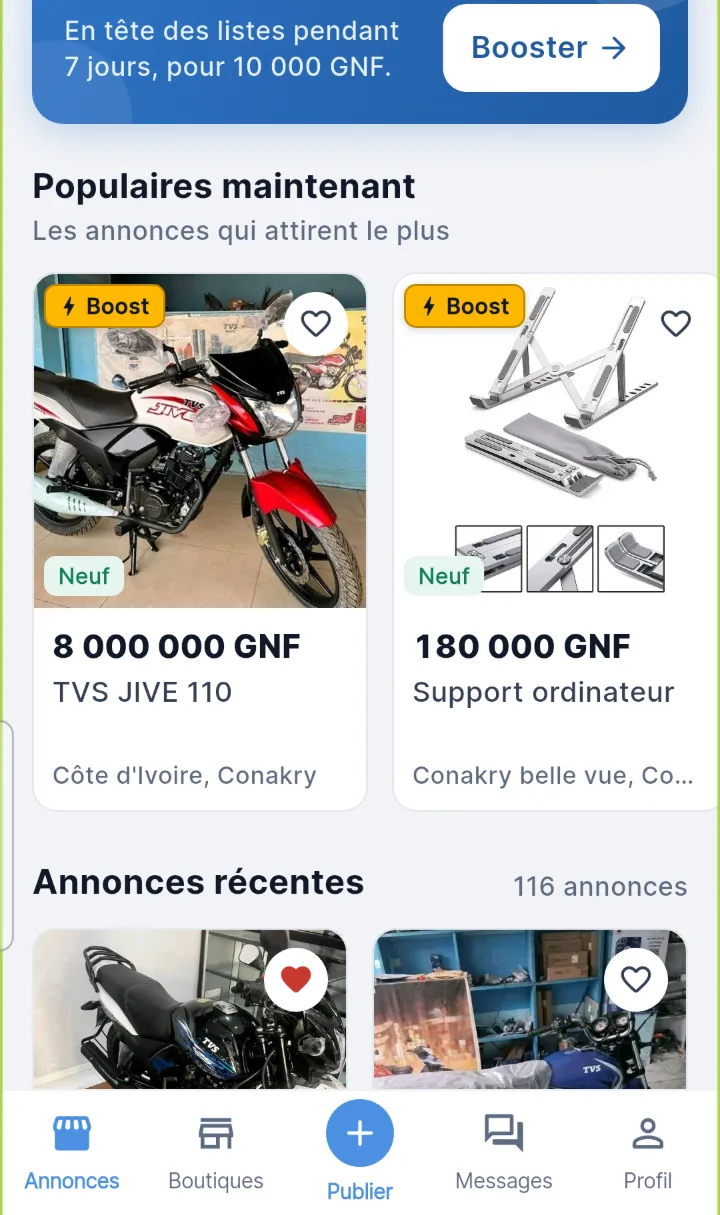
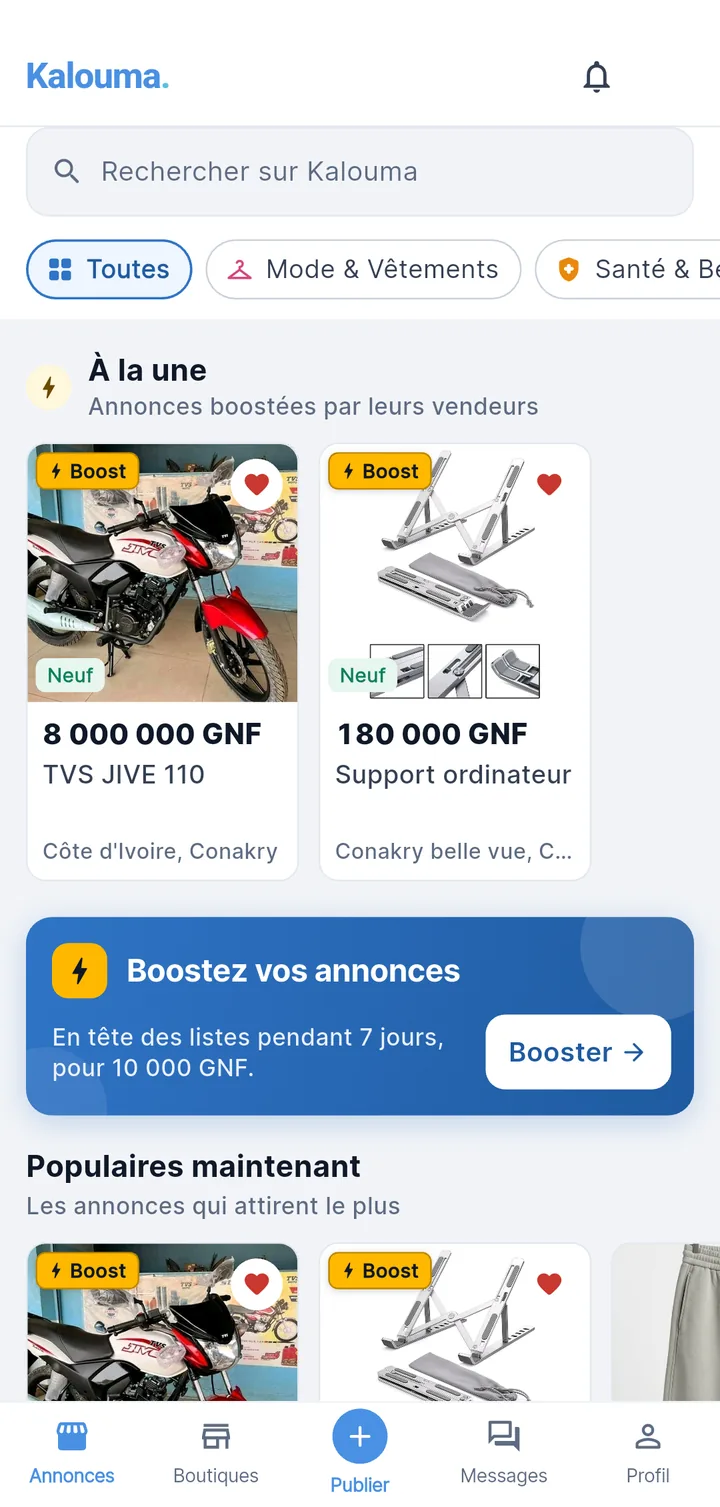
Site : capture Boost refaite, bandeau entier et téléphone non coupé

diff --git a/index.html b/index.html
@@ -209,7 +209,7 @@
         <p class="band-sub">Touchez « Booster » depuis l'app. C'est la seule option payante de Kalouma.</p>
       </div>
       <div class="peek">
-        <figure class="phone phone--crop"><img src="assets/img/boost.webp" width="720" height="1215" loading="lazy" decoding="async" alt="Capture du bandeau « Boostez vos annonces » au-dessus des annonces populaires."></figure>
+        <figure class="phone phone--crop"><img src="assets/img/boost.webp" width="720" height="1507" loading="lazy" decoding="async" alt="Capture de l’accueil de l’app : annonces à la une avec le badge Boost, et bandeau « Boostez vos annonces »."></figure>
       </div>
     </div>
   </section>

diff --git a/css/site.css b/css/site.css
@@ -101,7 +101,8 @@ a:hover{color:var(--blue-ink-hover)}
 .band-sub{margin-top:14px;font-size:17px}
 .peek{display:flex;justify-content:center;height:340px;overflow:hidden}
 .peek .phone{width:min(250px,72%);height:max-content;box-shadow:none}
-.phone--crop{aspect-ratio:720/1215}
+.phone--crop{aspect-ratio:720/1507}
+.band .peek{height:auto;padding-bottom:56px}
 .band .peek .phone{border-color:#0B1A33}
 
 /* Confiance */
